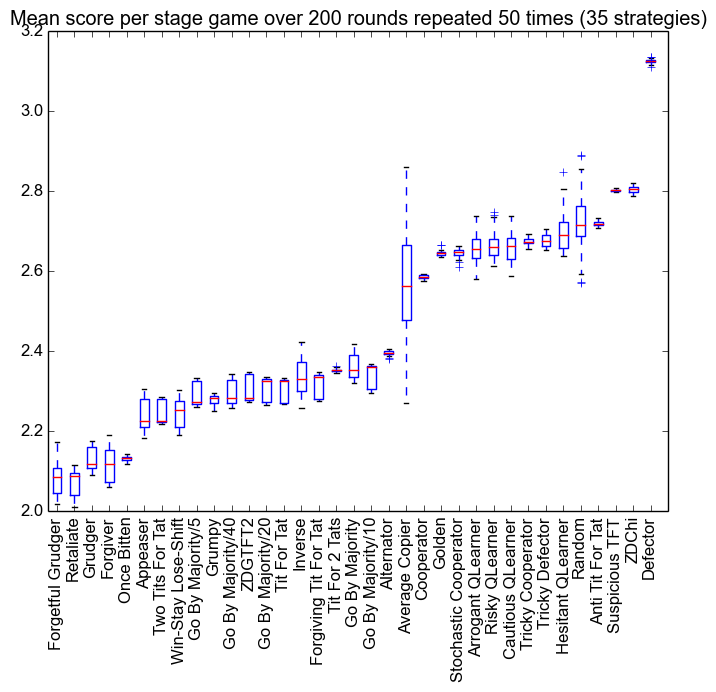
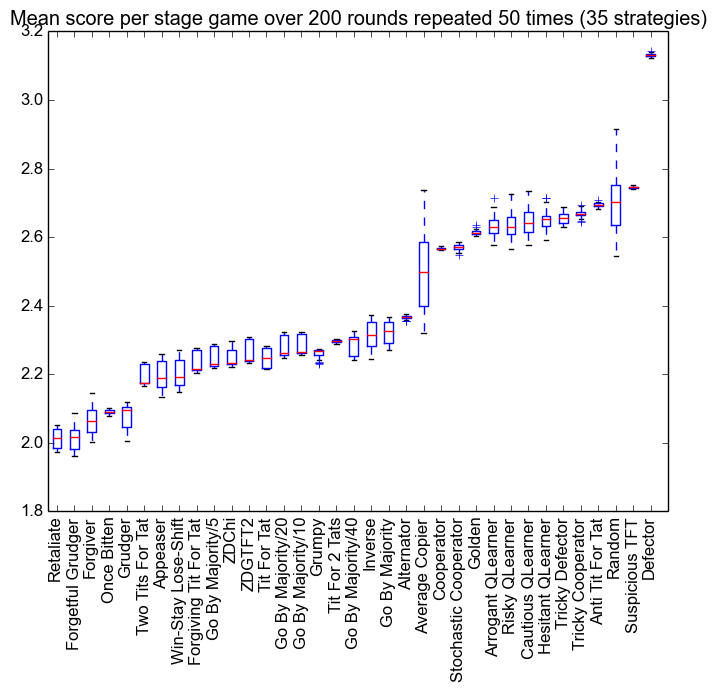
WSLS cleanup, ZDChi uses the correct game matrix and gets a performance boost

diff --git a/axelrod/strategies/memoryone.py b/axelrod/strategies/memoryone.py
@@ -1,6 +1,7 @@
 import random
 
-from axelrod import Player
+from axelrod import Player, game_matrix
+#from tournament import game_matrix
 
 """IPD Strategies: http://www.prisoners-dilemma.com/strategies.html"""
 
@@ -10,9 +11,7 @@ class WinStayLoseShift(Player):
     name = 'Win-Stay Lose-Shift'
 
     def __init__(self, initial='C'):
-        Player.__init__(self)
-        self._four_vector = dict( zip(  [ ('C','C'), ('C','D'), ('D','C'), ('D','D')], map(float, four_vector) ) )
-        
+        Player.__init__(self)        
         self.response_dict = {
             ('C','C'): 'C',
             ('C','D'): 'D',            
@@ -22,11 +21,7 @@ class WinStayLoseShift(Player):
         self._initial = initial
     
     def strategy(self, opponent):
-        """Almost always cooperates, but will try to trick the opponent by defecting.
-
-        Defect once in a while in order to get a better payout, when the opponent
-        has not defected in the last ten turns and only cooperated during last 3 turns.
-        """
+        """Switches if it doesn't get the best payout, traditionally equivalent to a Memory one strategy of [1,0,0,1], but this implementation does not require random draws."""
         if not opponent.history:
             return self._initial
         last_round = (self.history[-1], opponent.history[-1])
@@ -38,7 +33,6 @@ class MemoryOnePlayer(Player):
     name = 'Memory One Player'
 
     def __init__(self, four_vector=[1,0,0,1], initial='C'):
-#        super(self.__class__, self).__init__()
         Player.__init__(self)
         self._four_vector = dict( zip(  [ ('C','C'), ('C','D'), ('D','C'), ('D','D')], map(float, four_vector) ) )
         self._initial = initial
@@ -58,17 +52,60 @@ def zd_vector1(chi):
     return (1. - (2. * chi - 2.) / (4. * chi + 1.), 0.,
             (chi + 4.) / (4. * chi + 1.), 0.)
 
+
 def zd_vector2(chi):
     return (1., (chi - 1.)/(3. * chi + 2.), 1., 2.*(chi - 1.)/(3. * chi + 2.))
+
+
+#def press_dyson_determinant():
+    #pass
+
+
+#def exact_stationary(p,q):
+    #"""Using the Press and Dyson Formula where p and q are the conditional probability vectors."""
+    #s = []
+    #c1 = [-1 + p[0]*q[0], p[1]*q[2], p[2]*q[1], p[3]*q[3]]
+    #c2 = [-1 + p[0], -1 + p[1], p[2], p[3]]
+    #c3 = [-1 + q[0], q[2], -1 + q[1], q[3]]
+    
+    #for i in range(4):
+        #f = numpy.zeros(4)
+        #f[i] = 1
+        #m = numpy.matrix([c1,c2,c3,f])
+        #d = linalg.det(m)
+        #s.append(d)
+    ## normalize
+    #n = sum(s)
+    #if n == 0.:
+        #raise ValueError('exact_stationary() cannot handle zeros')
+    #s = numpy.array(s) / n
+    #return s
+
 
 class ZDChi(MemoryOnePlayer):
     """An Extortionate Zero Determinant Strategy."""
 
     name = 'ZDChi'
 
-    def __init__(self):
-        four_vector = zd_vector1(2.)
+    def __init__(self, chi=2):
+        chi = float(chi)
+        scores = game_matrix()
+        R = scores[('C', 'C')][0]
+        P = scores[('D', 'D')][0]
+        T = scores[('C', 'D')][0]
+        S = scores[('D', 'C')][0]
+        
+        phi_max = float(P-S) / ((P-S) + chi * (T-P))
+        phi = phi_max / 2.
+
+        p1 = 1. - phi*(chi - 1) * float(R-P) / (P-S)
+        p2 = 1 - phi * (1 + chi * float(T-P) / (P-S))
+        p3 = phi * (chi + float(T-P)/(P-S))
+        p4 = 0
+
+        four_vector = (p1, p2, p3, p4)
         super(self.__class__, self).__init__(four_vector)
+
 
 class ZDGTFT2(MemoryOnePlayer):
     """A Generous Zero Determinant Strategy."""
@@ -84,8 +121,8 @@ class GTFT2(MemoryOnePlayer):
 
     name = 'ZDGTFT2'
 
-    def __init__(self):
-        four_vector = zd_vector2(2.)
+    def __init__(self, ep=0.02):
+        four_vector = [1-ep, ep, 1-ep, ep]
         super(self.__class__, self).__init__(four_vector)
 
 class StochasticCooperator(MemoryOnePlayer):
@@ -99,7 +136,7 @@ class StochasticCooperator(MemoryOnePlayer):
 
 
 class SuspiciousTFT(MemoryOnePlayer):
-    """Suspicious Tit-For-Tat Strategy."""
+    """Suspicious Tit-For-Tat Strategy, initial move is D rather than C."""
 
     name = 'Suspicious TFT'
 

diff --git a/axelrod/tournament.py b/axelrod/tournament.py
@@ -8,6 +8,7 @@ import inspect
 import itertools
 
 ## Press and Dyson values: R=3, S=0, T=5, P=1
+## Generally T > R > P > S
 
 def game_matrix(R=2, S=0, T=5, P=4):
     scores = {
